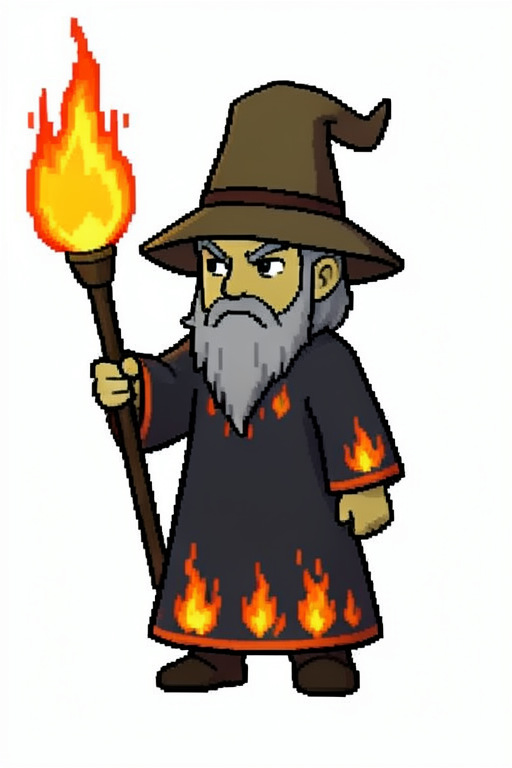
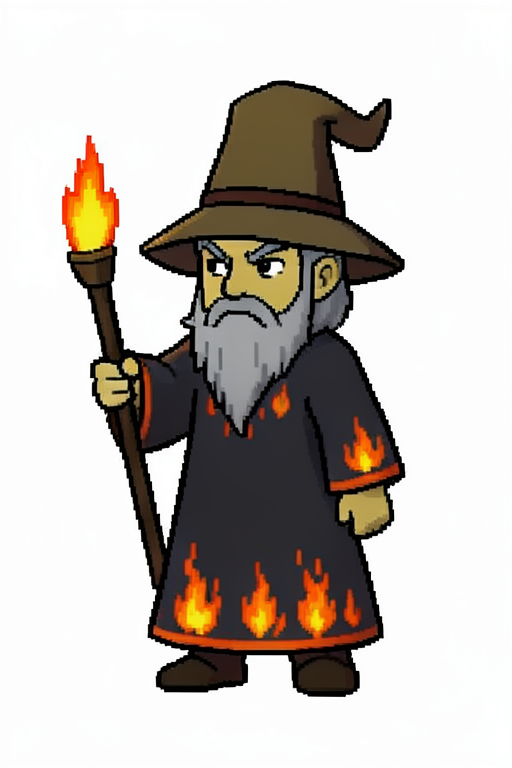
Ryan's round-fourteen pick cut (15 October): the Black Mage chibi with its flame at two thirds (flamefix 2, his note: could go between 1 and 2); fourteen picker rounds closed every note on the wildlife and the chibis, the status and to-do say so

diff --git a/docs/status.md b/docs/status.md
@@ -82,15 +82,16 @@ document's job and every command are in `README.md`.
 - Debug switches added on 12 and 13 October: `RIFTGATE_RAGE_DEBUG=1` (the rage's roll again);
   screenshot poses `rage` and `heat` (`tools/screenshot.gd`).
 - Foe art: every foe and hero is cut from Ryan's picks at 72x96 (massive 96x144, chibis 36x48);
-  eleven rounds on the phone picker, 13 and 14 October, closed every note he wrote on the
-  wildlife and the chibis; each pick's source, cut options and his notes are in
+  fourteen rounds on the phone picker, 13 to 15 October, closed every note he wrote on the
+  wildlife and the chibis, and his cutting batch (pockets of pure white now key by default,
+  the chibis cut at one body scale with every weapon inside the frame); each pick's source, cut options and his notes are in
   `tools/foeforge/picks/picks.json`. What worked: a flaw tried through the edit model once
   or twice, then image to image from the pick he liked (`forge.py generate --image`), never
   from the last pass (it drifts) and never a PIL hand edit on a figure (three failed his bar);
   one set per sprite per round. The heroes' boss register is picked and recorded, not in the
   game (the promoted forms are not entries); staff fingers on the White and Black Mage and
   the Martial Artist's fist are hand jobs. The Summoner carries deep violet rune circles and
-  Pyroclasm. Next: Ryan's batch of cutting notes on the lineup, then one recut of every sprite.
+  Pyroclasm. Next for the foes: the roster questions in section 12 (the Bomb, the marked goblin and revenant candidates), the head sizes if Ryan wants them level.
 - Known gaps: Jenny's foe-down lines are keyed by the retired families.
 
 ## Measured, 13 October

diff --git a/docs/todo.md b/docs/todo.md
@@ -63,7 +63,7 @@ bible's section 12; the order of work is `docs/status.md`. Never the same item i
 
 - [x] Ryan's picks of the edit model's fixes cut (13 October): both Gels' maws, the Ghost's painted flame, the Salamander's flame frill, the Dire Wolf's mane, the Goblin's grip (still not right, his note), the Magma Golem eyes only, the Mandragora brighter and leafier (its white holes keyed, `--holes 100`), the Sandworm without eyes
 - [x] Ryan's cutting batch on the lineup (14 October): every mark was a pocket of white between parts, so the cutter keys pockets of pure white by default (40 render pixels and up; an eye white is off-white and survives) and every sprite was recut under that one rule; the chibis cut at one shared scale (`--height 46`), since filling the frame had the crouched Thief as tall as the standing Lancer
-- [ ] Ryan picks round fourteen on the foe picker (15 October): the Black Mage chibi's flame edited to two thirds on his original pick (`black_mage_chibi_flamefix`; 2 keeps it on the staff, 4 floats it off), since a fresh take made it a tiny rod and then a tiny flame
+- [x] Fourteen picker rounds closed every note Ryan wrote on the wildlife and the chibis (13 to 15 October); the party stands at one body scale with every weapon inside the frame
 - [x] The pockets Ryan named recut (13 October): under the Goblin's sword arm, between the Lancer's spear and leg, between the White Mage's staff and leg (`--holes-tol 8` spares an off-white robe)
 - [x] Ryan picked from the Treant's and the Needler's new takes (13 October): Treant 8 and Needler 7, each with a further round
 - [ ] New foe types from the candidates Ryan marked, once he decides them (section 12)
